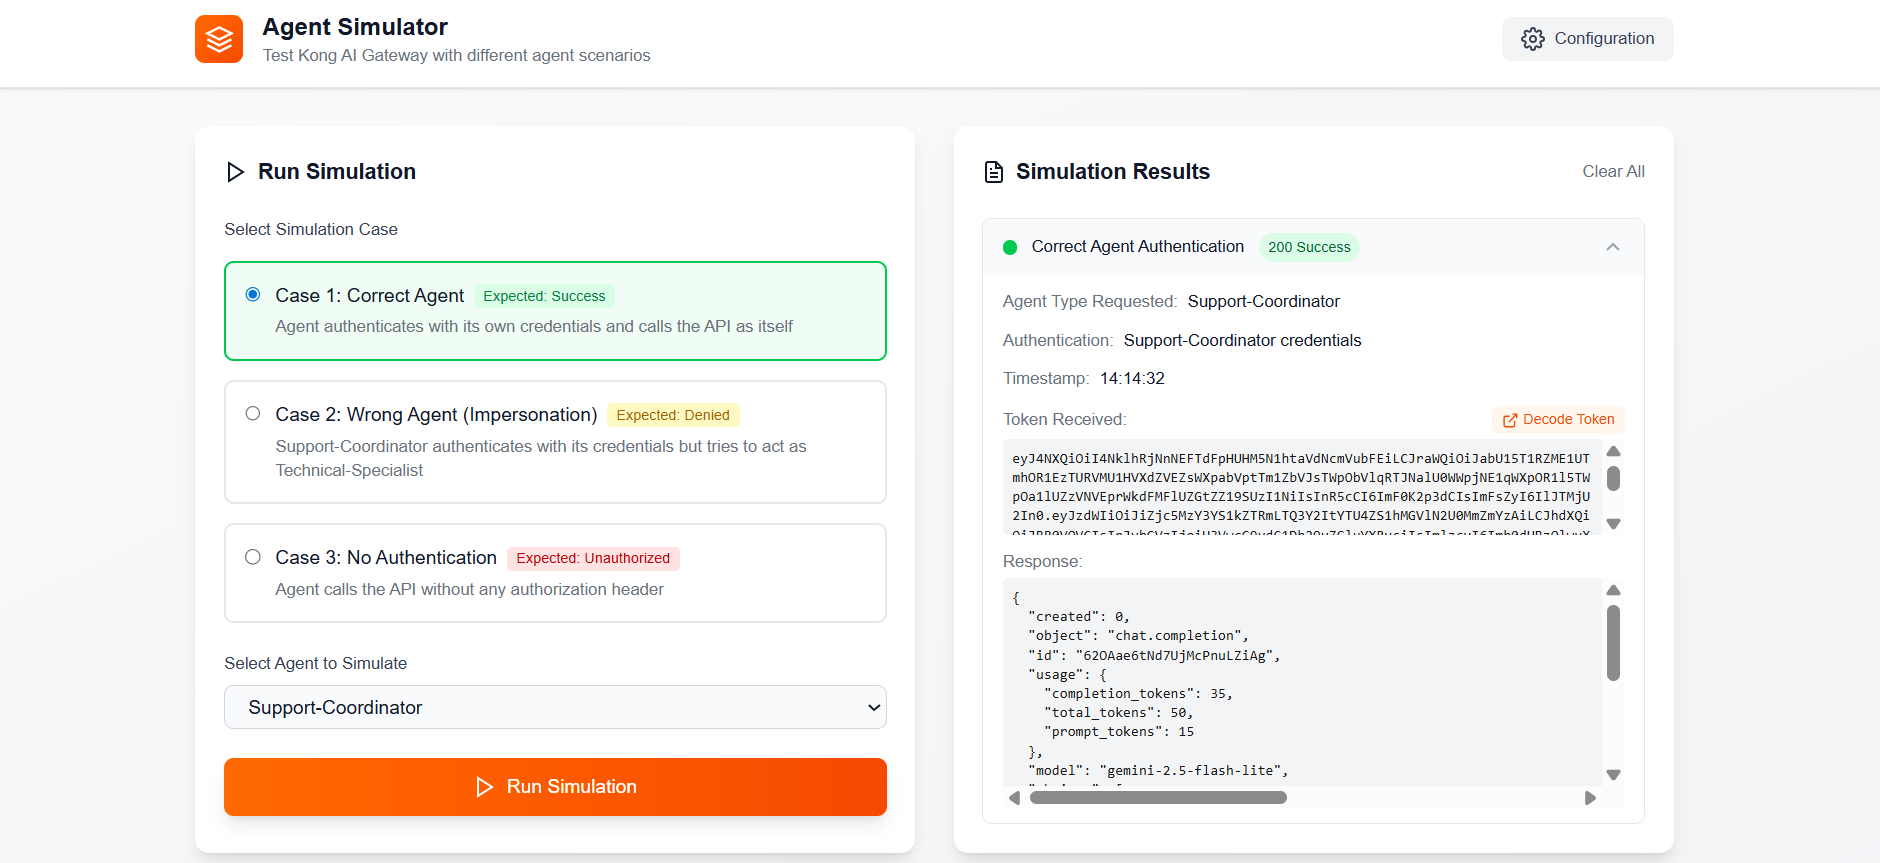
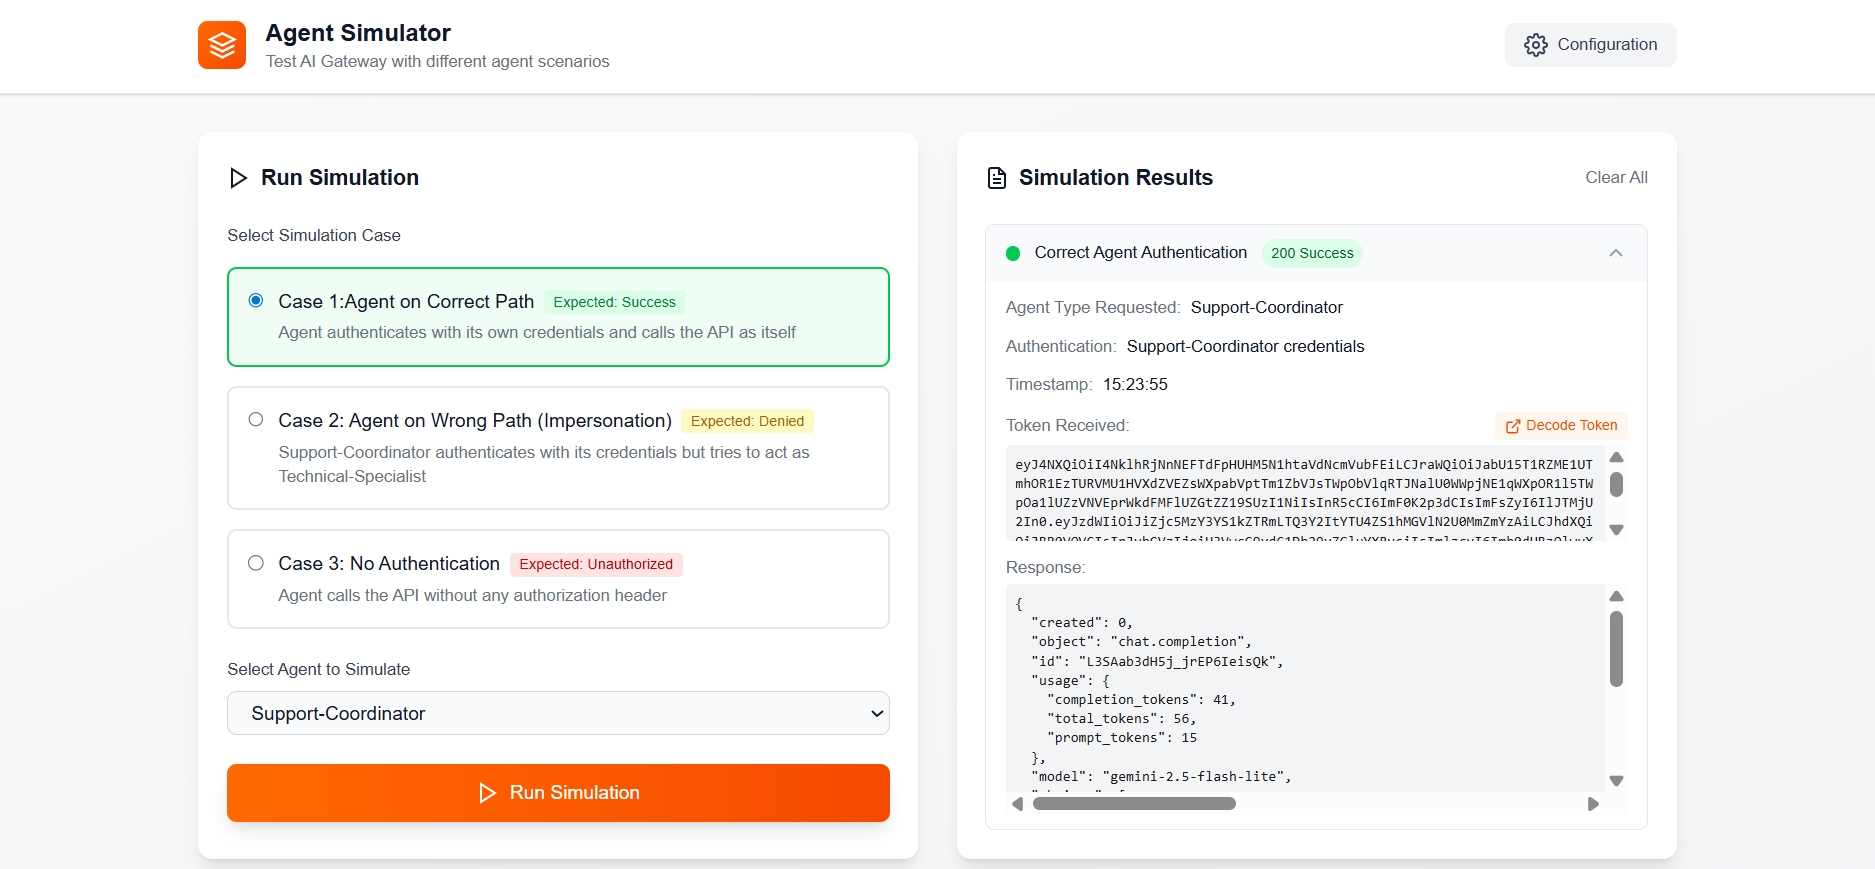
Update on assests

diff --git a/app/components/AgentSimulator.tsx b/app/components/AgentSimulator.tsx
@@ -319,7 +319,7 @@ export default function AgentSimulator({ config, onOpenConfig }: AgentSimulatorP
                 />
                 <div className="flex-1">
                   <div className="flex items-center gap-2">
-                    <span className="font-medium text-gray-900 dark:text-white">Case 1: Correct Agent</span>
+                    <span className="font-medium text-gray-900 dark:text-white">Case 1:Agent on Correct Path</span>
                     <span className="px-2 py-0.5 text-xs font-medium rounded bg-green-100 text-green-700 dark:bg-green-900/40 dark:text-green-400">
                       Expected: Success
                     </span>
@@ -346,7 +346,7 @@ export default function AgentSimulator({ config, onOpenConfig }: AgentSimulatorP
                 />
                 <div className="flex-1">
                   <div className="flex items-center gap-2">
-                    <span className="font-medium text-gray-900 dark:text-white">Case 2: Wrong Agent (Impersonation)</span>
+                    <span className="font-medium text-gray-900 dark:text-white">Case 2: Agent on Wrong Path (Impersonation)</span>
                     <span className="px-2 py-0.5 text-xs font-medium rounded bg-yellow-100 text-yellow-700 dark:bg-yellow-900/40 dark:text-yellow-400">
                       Expected: Denied
                     </span>
